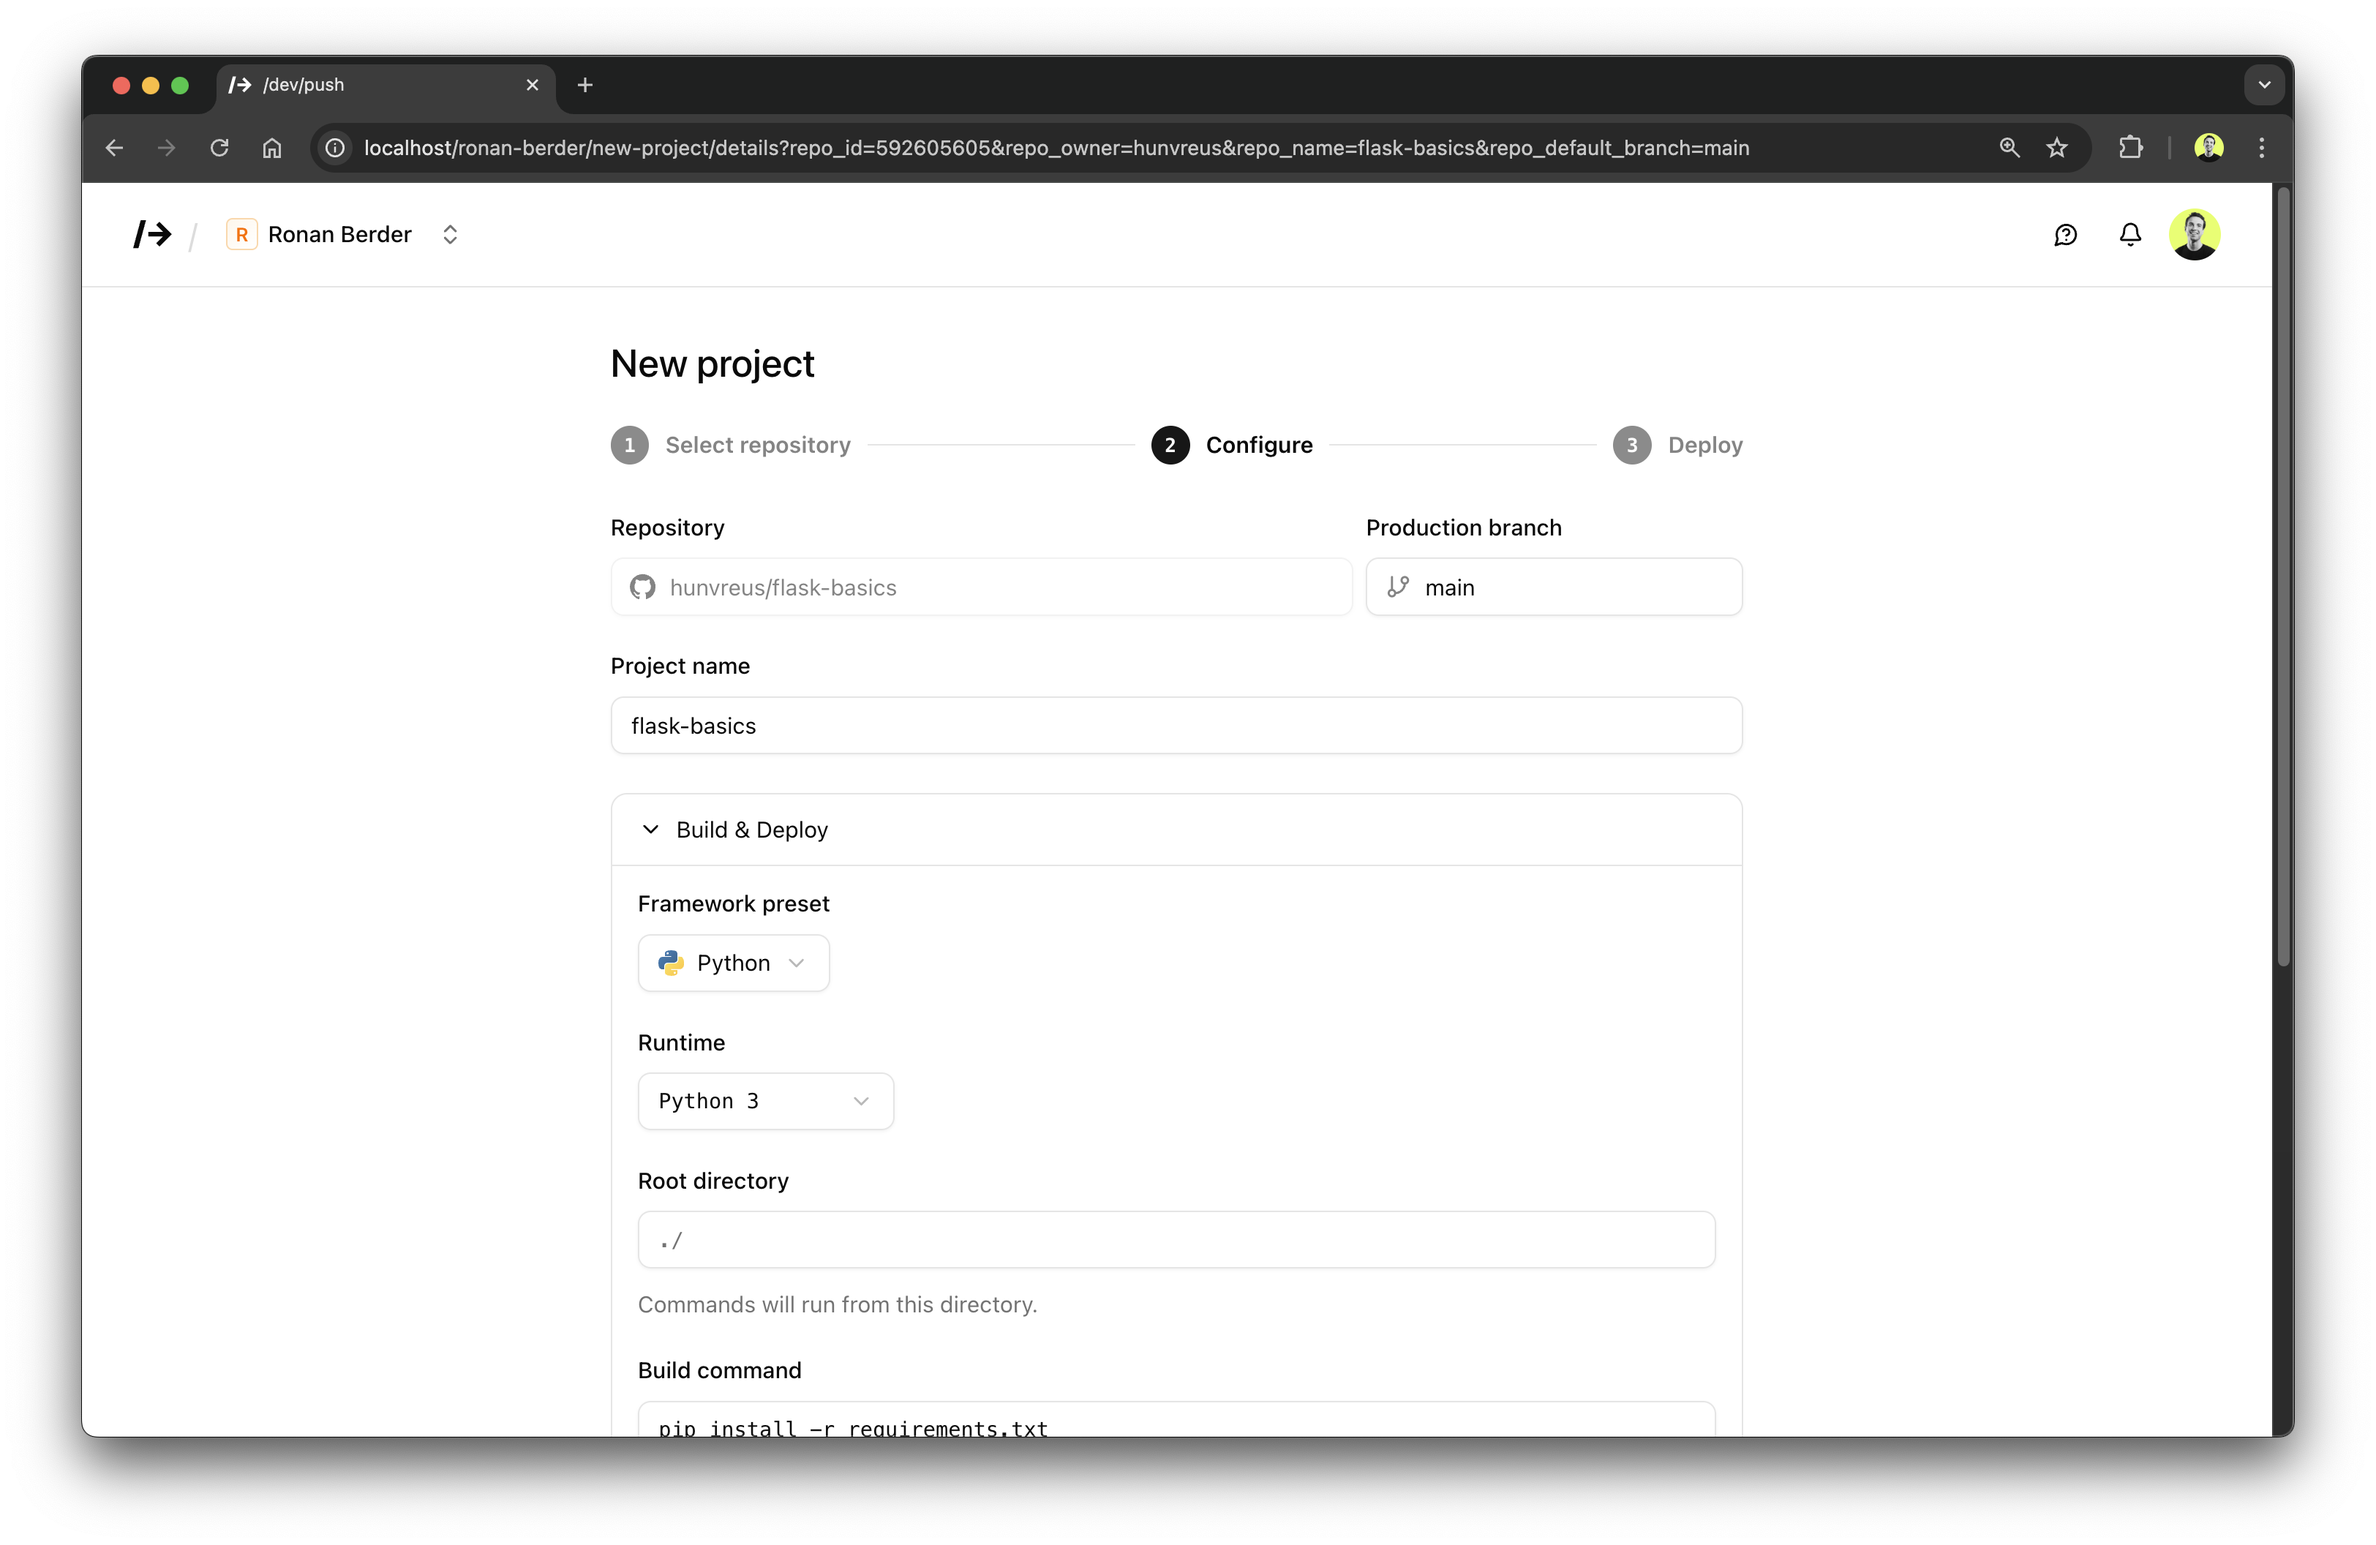
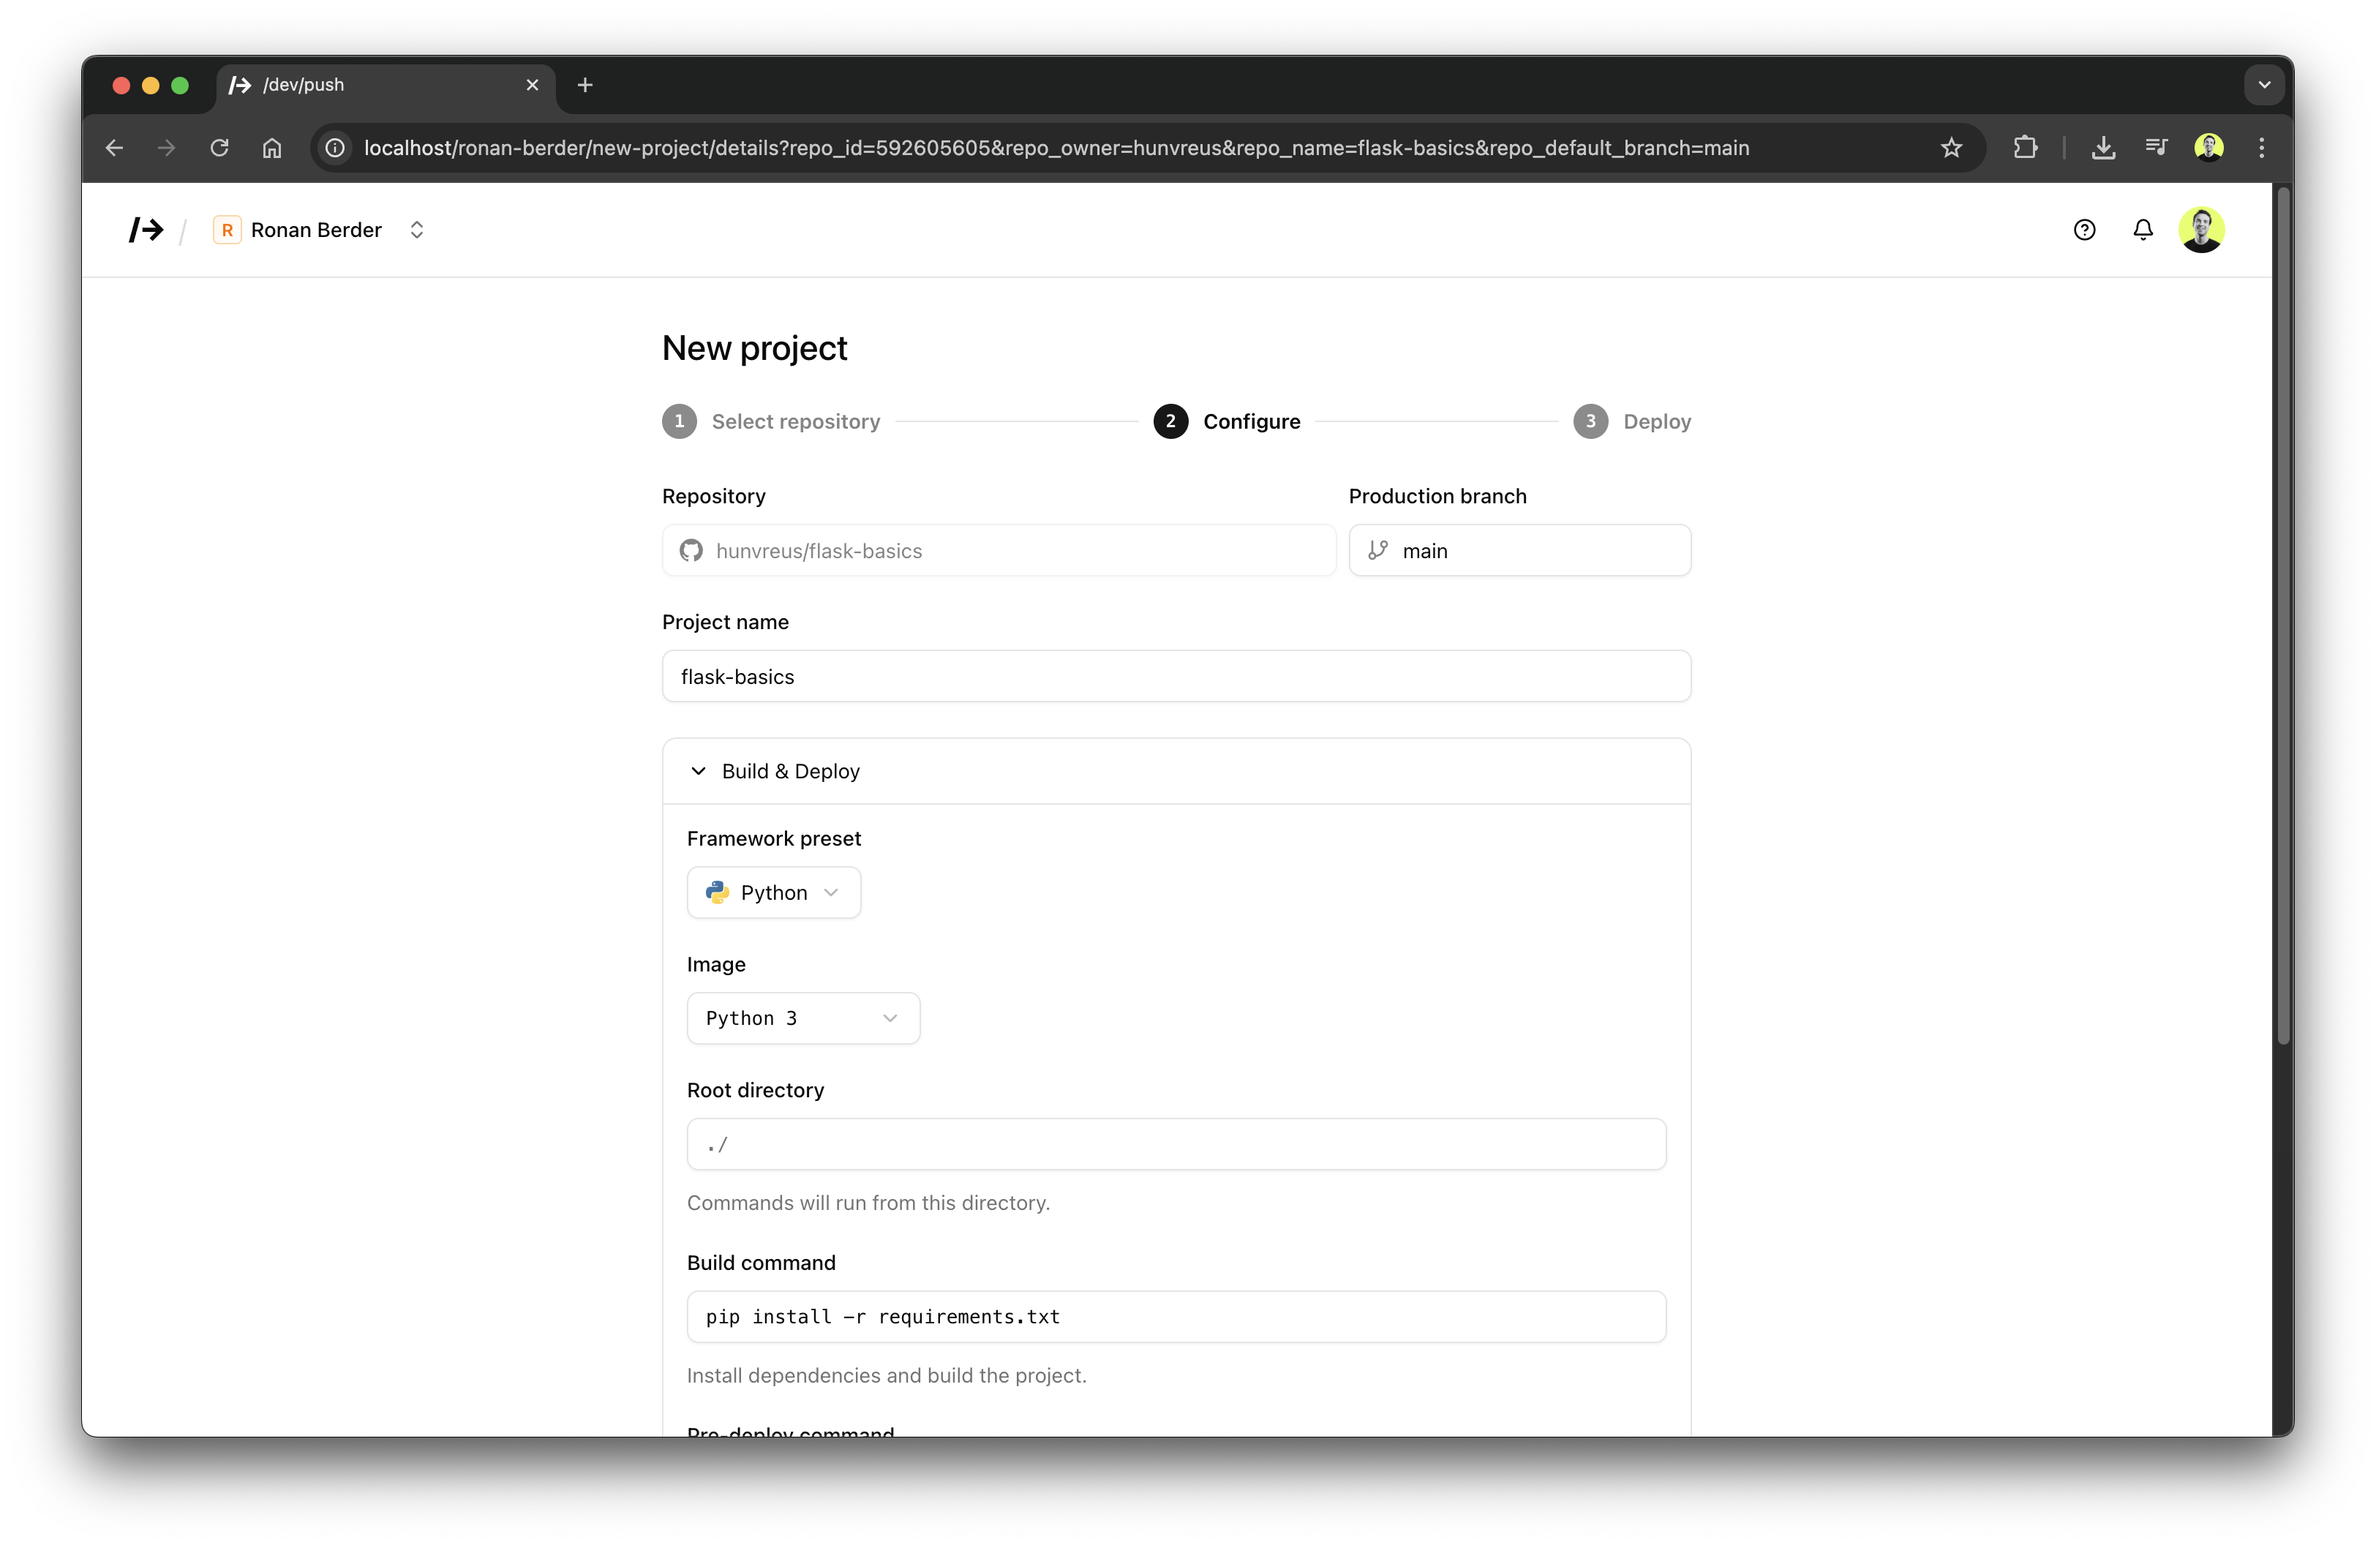
Updates

diff --git a/docs/index.md b/docs/index.md
@@ -26,9 +26,9 @@ I started working on /dev/push because I wanted a platform as user-friendly as V
 
 Under the hood, it's simply Docker.
 
-The app itself allows you to manage the configuration for your projects (GitHub repository, runtime, build and start commands, environment variables, ...).
+The app itself allows you to manage the configuration for your projects (GitHub repository, Docker image, build and start commands, environment variables, ...).
 
-Whenever it receives a webhook post from GitHub, it creates a new container for the selected runtime and proceeds to run a series of commands (git clone, build, ...). If the app builds successfully and is available, it is swapped for the matching environment.
+Whenever it receives a webhook post from GitHub, it creates a new container for the selected Docker image and proceeds to run a series of commands (git clone, build, ...). If the app builds successfully and is available, it is swapped for the matching environment.
 
 Most likely, you'll want to [install it on your own server](/docs/installation) (e.g. Hetzner), but [there is also an online version which you can sign up for](https://app.devpu.sh) (currently in beta testing, sign ups are reviewed individually).
 

diff --git a/docs/installation.md b/docs/installation.md
@@ -97,7 +97,7 @@ The worker is also mounted but will usually require a restart: `docker-compose r
 
 ### Production
 
-Run `./scripts/prod/update.sh` and select whether you want to update the app container, the worker containers, the [access list](#sign-in-access-control) or the runners (Docker images that match the runtimes).
+Run `./scripts/prod/update.sh` and select whether you want to update the app container, the worker containers, the [access list](#sign-in-access-control) or the runners (Docker images the deployments run on).
 
 For containers, it will run a blue-green update process via Ansible (no downtime). For the worker containers specifically, this may take a while as it waits for all active jobs to be finished before cleaning up the old container.
 

diff --git a/docs/deploy-your-app.md b/docs/deploy-your-app.md
@@ -22,7 +22,7 @@ You may need to connect your GitHub account if you did not log in with GitHub.
 
 ## Step 4: Fill in the project settings
 
-This includes the runtime and commands, making sure the commands will work for your app.
+This includes the Docker image and commands, making sure the commands will work for your app.
 
 ![Project details](/assets/images/deploy-your-app-project-details-4.png)
 
